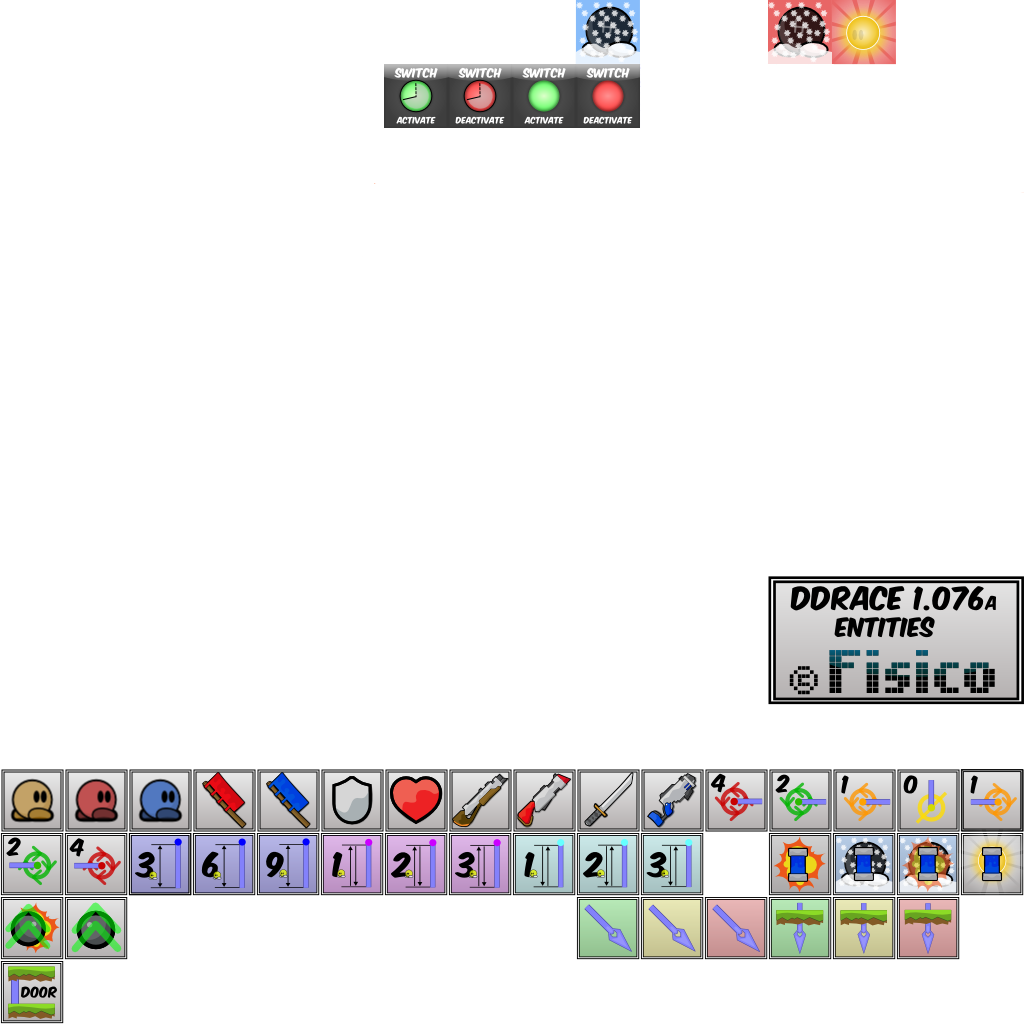
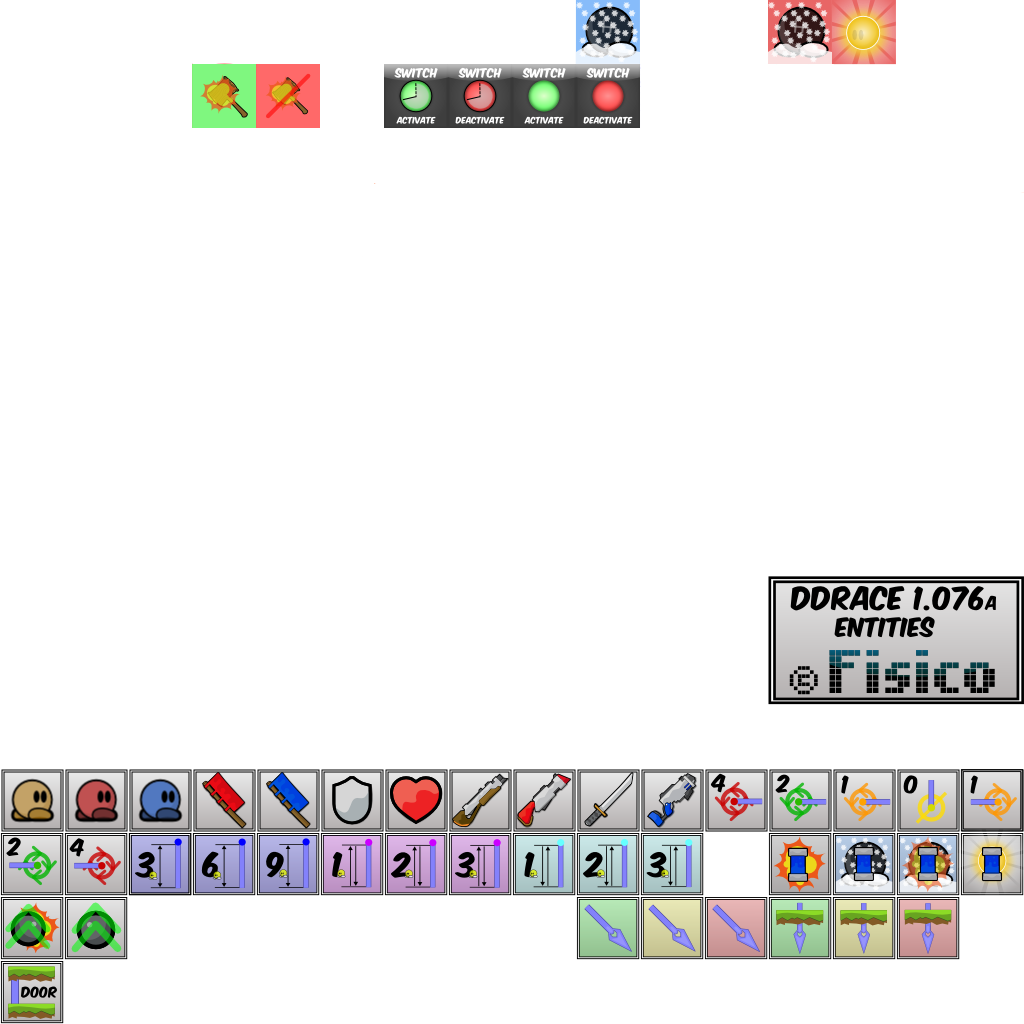
enumerated laser types, made it possible to choose which weapon to disable using switch layer delay variable

Changed region(s): [[0.1875, 0.0625, 0.3125, 0.125]]

diff --git a/src/game/server/entities/character.cpp b/src/game/server/entities/character.cpp
@@ -307,7 +307,7 @@ void CCharacter::FireWeapon()
 			m_NumObjectsHit = 0;
 			GameServer()->CreateSound(m_Pos, SOUND_HAMMER_FIRE, Teams()->TeamMask(Team()));
 
-			if (!m_Hit) break;
+			if (m_Hit&DISABLE_HIT_HAMMER) break;
 
 			CCharacter *apEnts[MAX_CLIENTS];
 			int Hits = 0;
@@ -421,7 +421,7 @@ void CCharacter::FireWeapon()
 			Server()->SendMsg(&Msg, 0,m_pPlayer->GetCID());
 
 			GameServer()->CreateSound(m_Pos, SOUND_SHOTGUN_FIRE);*/
-			new CLaser(&GameServer()->m_World, m_Pos, Direction, GameServer()->Tuning()->m_LaserReach, m_pPlayer->GetCID(), 1);
+			new CLaser(&GameServer()->m_World, m_Pos, Direction, GameServer()->Tuning()->m_LaserReach, m_pPlayer->GetCID(), WEAPON_SHOTGUN);
 			GameServer()->CreateSound(m_Pos, SOUND_SHOTGUN_FIRE, Teams()->TeamMask(Team()));
 		} break;
 
@@ -457,7 +457,7 @@ void CCharacter::FireWeapon()
 
 		case WEAPON_RIFLE:
 		{
-			new CLaser(GameWorld(), m_Pos, Direction, GameServer()->Tuning()->m_LaserReach, m_pPlayer->GetCID(), 0);
+			new CLaser(GameWorld(), m_Pos, Direction, GameServer()->Tuning()->m_LaserReach, m_pPlayer->GetCID(), WEAPON_RIFLE);
 			GameServer()->CreateSound(m_Pos, SOUND_RIFLE_FIRE, Teams()->TeamMask(Team()));
 		} break;
 
@@ -1234,15 +1234,15 @@ void CCharacter::HandleTiles(int Index)
 		GameServer()->SendChatTarget(GetPlayer()->GetCID(),"Endless hook has been deactivated");
 		m_EndlessHook = false;
 	}
-	if(((m_TileIndex == TILE_HIT_START) || (m_TileFIndex == TILE_HIT_START)) && !m_Hit)
+	if(((m_TileIndex == TILE_HIT_START) || (m_TileFIndex == TILE_HIT_START)) && m_Hit != HIT_ALL)
 	{
 		GameServer()->SendChatTarget(GetPlayer()->GetCID(),"You can hit others");
-		m_Hit = true;
+		m_Hit = HIT_ALL;
 	}
-	else if(((m_TileIndex == TILE_HIT_END) || (m_TileFIndex == TILE_HIT_END)) && m_Hit)
+	else if(((m_TileIndex == TILE_HIT_END) || (m_TileFIndex == TILE_HIT_END)) && m_Hit != (DISABLE_HIT_GRENADE|DISABLE_HIT_HAMMER|DISABLE_HIT_RIFLE|DISABLE_HIT_SHOTGUN))
 	{
 		GameServer()->SendChatTarget(GetPlayer()->GetCID(),"You can't hit others");
-		m_Hit = false;
+		m_Hit = DISABLE_HIT_GRENADE|DISABLE_HIT_HAMMER|DISABLE_HIT_RIFLE|DISABLE_HIT_SHOTGUN;
 	}
 	if(((m_TileIndex == TILE_STOP && m_TileFlags == ROTATION_270) || (m_TileIndexL == TILE_STOP && m_TileFlagsL == ROTATION_270) || (m_TileIndexL == TILE_STOPS && (m_TileFlagsL == ROTATION_90 || m_TileFlagsL ==ROTATION_270)) || (m_TileIndexL == TILE_STOPA) || (m_TileFIndex == TILE_STOP && m_TileFFlags == ROTATION_270) || (m_TileFIndexL == TILE_STOP && m_TileFFlagsL == ROTATION_270) || (m_TileFIndexL == TILE_STOPS && (m_TileFFlagsL == ROTATION_90 || m_TileFFlagsL == ROTATION_270)) || (m_TileFIndexL == TILE_STOPA) || (m_TileSIndex == TILE_STOP && m_TileSFlags == ROTATION_270) || (m_TileSIndexL == TILE_STOP && m_TileSFlagsL == ROTATION_270) || (m_TileSIndexL == TILE_STOPS && (m_TileSFlagsL == ROTATION_90 || m_TileSFlagsL == ROTATION_270)) || (m_TileSIndexL == TILE_STOPA)) && m_Core.m_Vel.x > 0)
 	{
@@ -1310,6 +1310,46 @@ void CCharacter::HandleTiles(int Index)
 	else if(GameServer()->Collision()->IsSwitch(MapIndex) == TILE_DUNFREEZE && Team() != TEAM_SUPER && GameServer()->Collision()->m_pSwitchers[GameServer()->Collision()->GetSwitchNumber(MapIndex)].m_Status[Team()])
 	{
 		m_DeepFreeze = false;
+	}
+	else if(GameServer()->Collision()->IsSwitch(MapIndex) == TILE_HIT_START && m_Hit&DISABLE_HIT_HAMMER && GameServer()->Collision()->GetSwitchDelay(MapIndex) == WEAPON_HAMMER)
+	{
+		GameServer()->SendChatTarget(GetPlayer()->GetCID(),"You can hammer hit others");
+		m_Hit ^= DISABLE_HIT_HAMMER;
+	}
+	else if(GameServer()->Collision()->IsSwitch(MapIndex) == TILE_HIT_END && !(m_Hit&DISABLE_HIT_HAMMER) && GameServer()->Collision()->GetSwitchDelay(MapIndex) == WEAPON_HAMMER)
+	{
+		GameServer()->SendChatTarget(GetPlayer()->GetCID(),"You can't hammer hit others");
+		m_Hit |= DISABLE_HIT_HAMMER;
+	}
+	else if(GameServer()->Collision()->IsSwitch(MapIndex) == TILE_HIT_START && m_Hit&DISABLE_HIT_SHOTGUN && GameServer()->Collision()->GetSwitchDelay(MapIndex) == WEAPON_SHOTGUN)
+	{
+		GameServer()->SendChatTarget(GetPlayer()->GetCID(),"You can shoot others with shotgun");
+		m_Hit ^= DISABLE_HIT_SHOTGUN;
+	}
+	else if(GameServer()->Collision()->IsSwitch(MapIndex) == TILE_HIT_END && !(m_Hit&DISABLE_HIT_SHOTGUN) && GameServer()->Collision()->GetSwitchDelay(MapIndex) == WEAPON_SHOTGUN)
+	{
+		GameServer()->SendChatTarget(GetPlayer()->GetCID(),"You can't shoot others with shotgun");
+		m_Hit |= DISABLE_HIT_SHOTGUN;
+	}
+	else if(GameServer()->Collision()->IsSwitch(MapIndex) == TILE_HIT_START && m_Hit&DISABLE_HIT_GRENADE && GameServer()->Collision()->GetSwitchDelay(MapIndex) == WEAPON_GRENADE)
+	{
+		GameServer()->SendChatTarget(GetPlayer()->GetCID(),"You can shoot others with grenade");
+		m_Hit ^= DISABLE_HIT_GRENADE;
+	}
+	else if(GameServer()->Collision()->IsSwitch(MapIndex) == TILE_HIT_END && !(m_Hit&DISABLE_HIT_GRENADE) && GameServer()->Collision()->GetSwitchDelay(MapIndex) == WEAPON_GRENADE)
+	{
+		GameServer()->SendChatTarget(GetPlayer()->GetCID(),"You can't shoot others with grenade");
+		m_Hit |= DISABLE_HIT_GRENADE;
+	}
+	else if(GameServer()->Collision()->IsSwitch(MapIndex) == TILE_HIT_START && m_Hit&DISABLE_HIT_RIFLE && GameServer()->Collision()->GetSwitchDelay(MapIndex) == WEAPON_RIFLE)
+	{
+		GameServer()->SendChatTarget(GetPlayer()->GetCID(),"You can shoot others with rifle");
+		m_Hit ^= DISABLE_HIT_RIFLE;
+	}
+	else if(GameServer()->Collision()->IsSwitch(MapIndex) == TILE_HIT_END && !(m_Hit&DISABLE_HIT_RIFLE) && GameServer()->Collision()->GetSwitchDelay(MapIndex) == WEAPON_RIFLE)
+	{
+		GameServer()->SendChatTarget(GetPlayer()->GetCID(),"You can't shoot others with rifle");
+		m_Hit |= DISABLE_HIT_RIFLE;
 	}
 	int z = GameServer()->Collision()->IsTeleport(MapIndex);
 	if(z && ((CGameControllerDDRace*)GameServer()->m_pController)->m_TeleOuts[z-1].size())
@@ -1501,5 +1541,5 @@ void CCharacter::DDRaceInit()
 	m_DefEmoteReset = -1;
 	m_TeleCheckpoint = 0;
 	m_EndlessHook = g_Config.m_SvEndlessDrag;
-	m_Hit = g_Config.m_SvHit;
+	m_Hit = g_Config.m_SvHit ? HIT_ALL : DISABLE_HIT_GRENADE|DISABLE_HIT_HAMMER|DISABLE_HIT_RIFLE|DISABLE_HIT_SHOTGUN;
 }

diff --git a/src/game/editor/layer_tiles.cpp b/src/game/editor/layer_tiles.cpp
@@ -233,7 +233,7 @@ int CLayerTiles::BrushGrab(CLayerGroup *pBrush, CUIRect Rect)
 				for(int x = 0; x < r.w; x++)
 				{
 					pGrabbed->m_pSwitchTile[y*pGrabbed->m_Width+x] = ((CLayerSwitch*)this)->m_pSwitchTile[(r.y+y)*m_Width+(r.x+x)];
-					if(pGrabbed->m_pSwitchTile[y*pGrabbed->m_Width+x].m_Type == ENTITY_DOOR + ENTITY_OFFSET || pGrabbed->m_pSwitchTile[y*pGrabbed->m_Width+x].m_Type == TILE_SWITCHOPEN || pGrabbed->m_pSwitchTile[y*pGrabbed->m_Width+x].m_Type == TILE_SWITCHCLOSE || pGrabbed->m_pSwitchTile[y*pGrabbed->m_Width+x].m_Type == TILE_SWITCHTIMEDOPEN || pGrabbed->m_pSwitchTile[y*pGrabbed->m_Width+x].m_Type == TILE_SWITCHTIMEDCLOSE || pGrabbed->m_pSwitchTile[y*pGrabbed->m_Width+x].m_Type == ENTITY_LASER_LONG + ENTITY_OFFSET || pGrabbed->m_pSwitchTile[y*pGrabbed->m_Width+x].m_Type == ENTITY_LASER_MEDIUM + ENTITY_OFFSET || pGrabbed->m_pSwitchTile[y*pGrabbed->m_Width+x].m_Type == ENTITY_LASER_SHORT + ENTITY_OFFSET)
+					if(pGrabbed->m_pSwitchTile[y*pGrabbed->m_Width+x].m_Type == ENTITY_DOOR + ENTITY_OFFSET || pGrabbed->m_pSwitchTile[y*pGrabbed->m_Width+x].m_Type == TILE_HIT_START || pGrabbed->m_pSwitchTile[y*pGrabbed->m_Width+x].m_Type == TILE_HIT_END || pGrabbed->m_pSwitchTile[y*pGrabbed->m_Width+x].m_Type == TILE_SWITCHOPEN || pGrabbed->m_pSwitchTile[y*pGrabbed->m_Width+x].m_Type == TILE_SWITCHCLOSE || pGrabbed->m_pSwitchTile[y*pGrabbed->m_Width+x].m_Type == TILE_SWITCHTIMEDOPEN || pGrabbed->m_pSwitchTile[y*pGrabbed->m_Width+x].m_Type == TILE_SWITCHTIMEDCLOSE || pGrabbed->m_pSwitchTile[y*pGrabbed->m_Width+x].m_Type == ENTITY_LASER_LONG + ENTITY_OFFSET || pGrabbed->m_pSwitchTile[y*pGrabbed->m_Width+x].m_Type == ENTITY_LASER_MEDIUM + ENTITY_OFFSET || pGrabbed->m_pSwitchTile[y*pGrabbed->m_Width+x].m_Type == ENTITY_LASER_SHORT + ENTITY_OFFSET)
 					{
 						m_pEditor->m_SwitchNum = pGrabbed->m_pSwitchTile[y*pGrabbed->m_Width+x].m_Number;
 						m_pEditor->m_SwitchDelay = pGrabbed->m_pSwitchTile[y*pGrabbed->m_Width+x].m_Delay;
@@ -1257,7 +1257,7 @@ void CLayerSwitch::BrushDraw(CLayer *pBrush, float wx, float wy)
 			if(fx<0 || fx >= m_Width || fy < 0 || fy >= m_Height)
 				continue;
 
-			if((l->m_pTiles[y*l->m_Width+x].m_Index >= (ENTITY_ARMOR_1 + ENTITY_OFFSET) && l->m_pTiles[y*l->m_Width+x].m_Index <= (ENTITY_DOOR + ENTITY_OFFSET)) || l->m_pTiles[y*l->m_Width+x].m_Index == TILE_SWITCHOPEN || l->m_pTiles[y*l->m_Width+x].m_Index == TILE_SWITCHCLOSE || l->m_pTiles[y*l->m_Width+x].m_Index == TILE_SWITCHTIMEDOPEN || l->m_pTiles[y*l->m_Width+x].m_Index == TILE_SWITCHTIMEDCLOSE || l->m_pTiles[y*l->m_Width+x].m_Index == TILE_FREEZE || l->m_pTiles[y*l->m_Width+x].m_Index == TILE_DFREEZE || l->m_pTiles[y*l->m_Width+x].m_Index == TILE_DUNFREEZE)
+			if((l->m_pTiles[y*l->m_Width+x].m_Index >= (ENTITY_ARMOR_1 + ENTITY_OFFSET) && l->m_pTiles[y*l->m_Width+x].m_Index <= (ENTITY_DOOR + ENTITY_OFFSET)) || l->m_pTiles[y*l->m_Width+x].m_Index == TILE_HIT_START || l->m_pTiles[y*l->m_Width+x].m_Index == TILE_HIT_END || l->m_pTiles[y*l->m_Width+x].m_Index == TILE_SWITCHOPEN || l->m_pTiles[y*l->m_Width+x].m_Index == TILE_SWITCHCLOSE || l->m_pTiles[y*l->m_Width+x].m_Index == TILE_SWITCHTIMEDOPEN || l->m_pTiles[y*l->m_Width+x].m_Index == TILE_SWITCHTIMEDCLOSE || l->m_pTiles[y*l->m_Width+x].m_Index == TILE_FREEZE || l->m_pTiles[y*l->m_Width+x].m_Index == TILE_DFREEZE || l->m_pTiles[y*l->m_Width+x].m_Index == TILE_DUNFREEZE)
 			{
 				if(m_pEditor->m_SwitchNum != l->m_SwitchNumber || m_pEditor->m_SwitchDelay != l->m_SwitchDelay)
 				{

diff --git a/src/game/server/entities/laser.cpp b/src/game/server/entities/laser.cpp
@@ -29,17 +29,17 @@ bool CLaser::HitCharacter(vec2 From, vec2 To)
 	CCharacter *pOwnerChar = GameServer()->GetPlayerChar(m_Owner);
 	CCharacter *pHit;
 
-	if(pOwnerChar ? pOwnerChar->m_Hit : g_Config.m_SvHit)
+	if(pOwnerChar ? (!(pOwnerChar->m_Hit&CCharacter::DISABLE_HIT_RIFLE) && m_Type == WEAPON_RIFLE) || (!(pOwnerChar->m_Hit&CCharacter::DISABLE_HIT_SHOTGUN) && m_Type == WEAPON_SHOTGUN) : g_Config.m_SvHit)
 		pHit = GameServer()->m_World.IntersectCharacter(m_Pos, To, 0.f, At, g_Config.m_SvOldLaser || m_Bounces == 0 ? pOwnerChar : 0, m_Owner);
 	else
 		pHit = GameServer()->m_World.IntersectCharacter(m_Pos, To, 0.f, At, g_Config.m_SvOldLaser || m_Bounces == 0 ? pOwnerChar : 0, m_Owner, pOwnerChar);
 
-	if(!pHit || (pHit == pOwnerChar && g_Config.m_SvOldLaser) || (pHit != pOwnerChar && pOwnerChar ? !pOwnerChar->m_Hit : !g_Config.m_SvHit))
+	if(!pHit || (pHit == pOwnerChar && g_Config.m_SvOldLaser) || (pHit != pOwnerChar && pOwnerChar ? (pOwnerChar->m_Hit&CCharacter::DISABLE_HIT_RIFLE  && m_Type == WEAPON_RIFLE) || (pOwnerChar->m_Hit&CCharacter::DISABLE_HIT_SHOTGUN && m_Type == WEAPON_SHOTGUN) : !g_Config.m_SvHit))
 		return false;
 	m_From = From;
 	m_Pos = At;
 	m_Energy = -1;
-	if (m_Type == 1)
+	if (m_Type == WEAPON_SHOTGUN)
 	{
 		vec2 Temp;
 		if(!g_Config.m_SvOldLaser)
@@ -56,7 +56,7 @@ bool CLaser::HitCharacter(vec2 From, vec2 To)
 			Temp.y = 0;
 		pHit->Core()->m_Vel = Temp;
 	}
-	else if (m_Type == 0)
+	else if (m_Type == WEAPON_RIFLE)
 	{
 		pHit->UnFreeze();
 	}

diff --git a/src/game/server/gamecontext.cpp b/src/game/server/gamecontext.cpp
@@ -160,12 +160,12 @@ void CGameContext::CreateExplosion(vec2 Pos, int Owner, int Weapon, bool NoDamag
 			l = 1-clamp((l-InnerRadius)/(Radius-InnerRadius), 0.0f, 1.0f);
 			float Dmg = 6 * l;
 			if((int)Dmg)
-				if((GetPlayerChar(Owner) ? GetPlayerChar(Owner)->m_Hit : g_Config.m_SvHit || NoDamage) || Owner == apEnts[i]->GetPlayer()->GetCID())
+				if((GetPlayerChar(Owner) ? !(GetPlayerChar(Owner)->m_Hit&CCharacter::DISABLE_HIT_GRENADE) : g_Config.m_SvHit || NoDamage) || Owner == apEnts[i]->GetPlayer()->GetCID())
 				{
 					if(Owner != -1 && apEnts[i]->IsAlive() && !apEnts[i]->CanCollide(Owner)) continue;
 					if(Owner == -1 && ActivatedTeam != -1 && apEnts[i]->IsAlive() && apEnts[i]->Team() != ActivatedTeam) continue;
 					apEnts[i]->TakeDamage(ForceDir*Dmg*2, (int)Dmg, Owner, Weapon);
-					if(GetPlayerChar(Owner) ? !GetPlayerChar(Owner)->m_Hit : !g_Config.m_SvHit && !(GetPlayerChar(Owner) && GetPlayerChar(Owner)->m_Hit) || NoDamage) break;
+					if(GetPlayerChar(Owner) ? GetPlayerChar(Owner)->m_Hit&CCharacter::DISABLE_HIT_GRENADE : !g_Config.m_SvHit || NoDamage) break;
 				}
 		}
 	//}

diff --git a/src/game/editor/io.cpp b/src/game/editor/io.cpp
@@ -697,6 +697,16 @@ int CEditorMap::Load(class IStorage *pStorage, const char *pFileName, int Storag
 									((CLayerTiles*)pTiles)->m_pTiles[i].m_Index = ((CLayerSwitch*)pTiles)->m_pSwitchTile[i].m_Type;
 									((CLayerTiles*)pTiles)->m_pTiles[i].m_Flags = ((CLayerSwitch*)pTiles)->m_pSwitchTile[i].m_Flags;
 								}
+								else if(((CLayerSwitch*)pTiles)->m_pSwitchTile[i].m_Type == TILE_HIT_START)
+								{
+									((CLayerTiles*)pTiles)->m_pTiles[i].m_Index = TILE_HIT_START;
+									((CLayerTiles*)pTiles)->m_pTiles[i].m_Flags = ((CLayerSwitch*)pTiles)->m_pSwitchTile[i].m_Flags;
+								}
+								else if(((CLayerSwitch*)pTiles)->m_pSwitchTile[i].m_Type == TILE_HIT_END)
+								{
+									((CLayerTiles*)pTiles)->m_pTiles[i].m_Index = TILE_HIT_END;
+									((CLayerTiles*)pTiles)->m_pTiles[i].m_Flags = ((CLayerSwitch*)pTiles)->m_pSwitchTile[i].m_Flags;
+								}
 							}
 							DataFile.UnloadData(pTilemapItem->m_Switch);
 						}

diff --git a/src/game/server/entities/projectile.cpp b/src/game/server/entities/projectile.cpp
@@ -117,7 +117,7 @@ void CProjectile::Tick()
 	{
 			TeamMask = pOwnerChar->Teams()->TeamMask( pOwnerChar->Team());
 	}
-	if( ((pTargetChr && (pOwnerChar ? pOwnerChar->m_Hit : g_Config.m_SvHit || m_Owner == -1 || pTargetChr == pOwnerChar)) || Collide || GameLayerClipped(CurPos)) && !isWeaponCollide)//TODO:TEAM
+	if( ((pTargetChr && (pOwnerChar ? !(pOwnerChar->m_Hit&CCharacter::DISABLE_HIT_GRENADE) : g_Config.m_SvHit || m_Owner == -1 || pTargetChr == pOwnerChar)) || Collide || GameLayerClipped(CurPos)) && !isWeaponCollide)//TODO:TEAM
 	{
 		if(m_Explosive/*??*/ && (!pTargetChr || (pTargetChr && !m_Freeze)))
 		{

diff --git a/src/game/server/entities/character.h b/src/game/server/entities/character.h
@@ -157,7 +157,15 @@ public:
 	int m_FreezeTick;
 	bool m_DeepFreeze;
 	bool m_EndlessHook;
-	bool m_Hit;
+	enum
+	{
+		HIT_ALL=0,
+		DISABLE_HIT_HAMMER=1,
+		DISABLE_HIT_SHOTGUN=2,
+		DISABLE_HIT_GRENADE=4,
+		DISABLE_HIT_RIFLE=8
+	};
+	int m_Hit;
 	int m_PainSoundTimer;
 	int m_DefEmote;
 	int m_DefEmoteReset;
